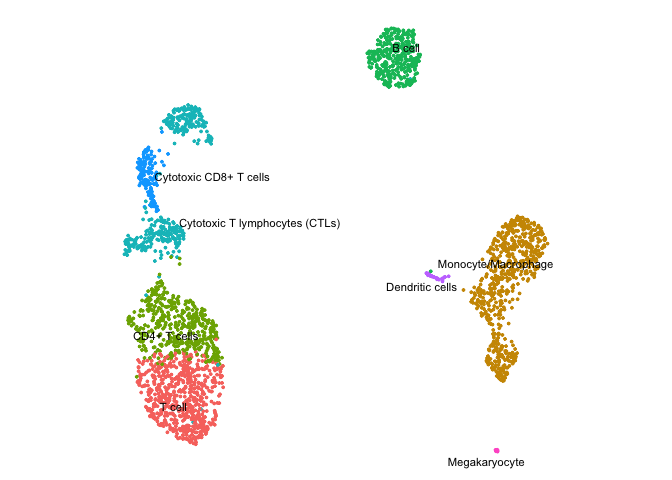
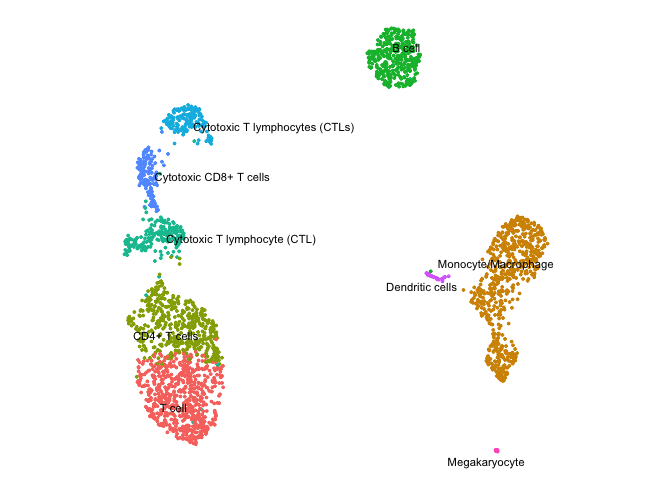
higher quality readme.

diff --git a/README.md b/README.md
@@ -1376,15 +1376,6 @@ Thinking…
 
 </details>
 
-    ## Warning: package 'jsonlite' was built under R version 4.2.3
-
-    ## 
-    ## Attaching package: 'jsonlite'
-
-    ## The following object is masked from 'package:purrr':
-    ## 
-    ##     flatten
-
     ## T-cells (Confidence: 95)
     ## Monocytes (Confidence: 100)
     ## CD8+ T Cells (Confidence: 98)
@@ -1408,12 +1399,11 @@ DimPlot(pbmc, label = T, repel = T, label.size = 3) + theme_void() + theme(aspec
 
 ## Using OpenAI API
 
-You can also use OpenAI for annotating your cell types.
-
 > \[!WARNING\]  
 > This will send data to OpenAI!
 
-First, you can to create a `.Renviron` file where you keep your API key.
+You can also use OpenAI for annotating your cell types. First, you can
+to create a `.Renviron` file where you keep your API key.
 `OPENAI_API_KEY="Best_key_ever"`
 
 ``` r
@@ -1436,7 +1426,8 @@ res.openai <-
 
     ## >> Response: B cell
 
-    ## >> Response: Cytotoxic T lymphocytes (CTLs)
+    ## >> Response: Cytotoxic T lymphocyte (CTL)
+
     ## >> Response: Cytotoxic T lymphocytes (CTLs)
 
     ## >> Response: Monocyte/Macrophage
